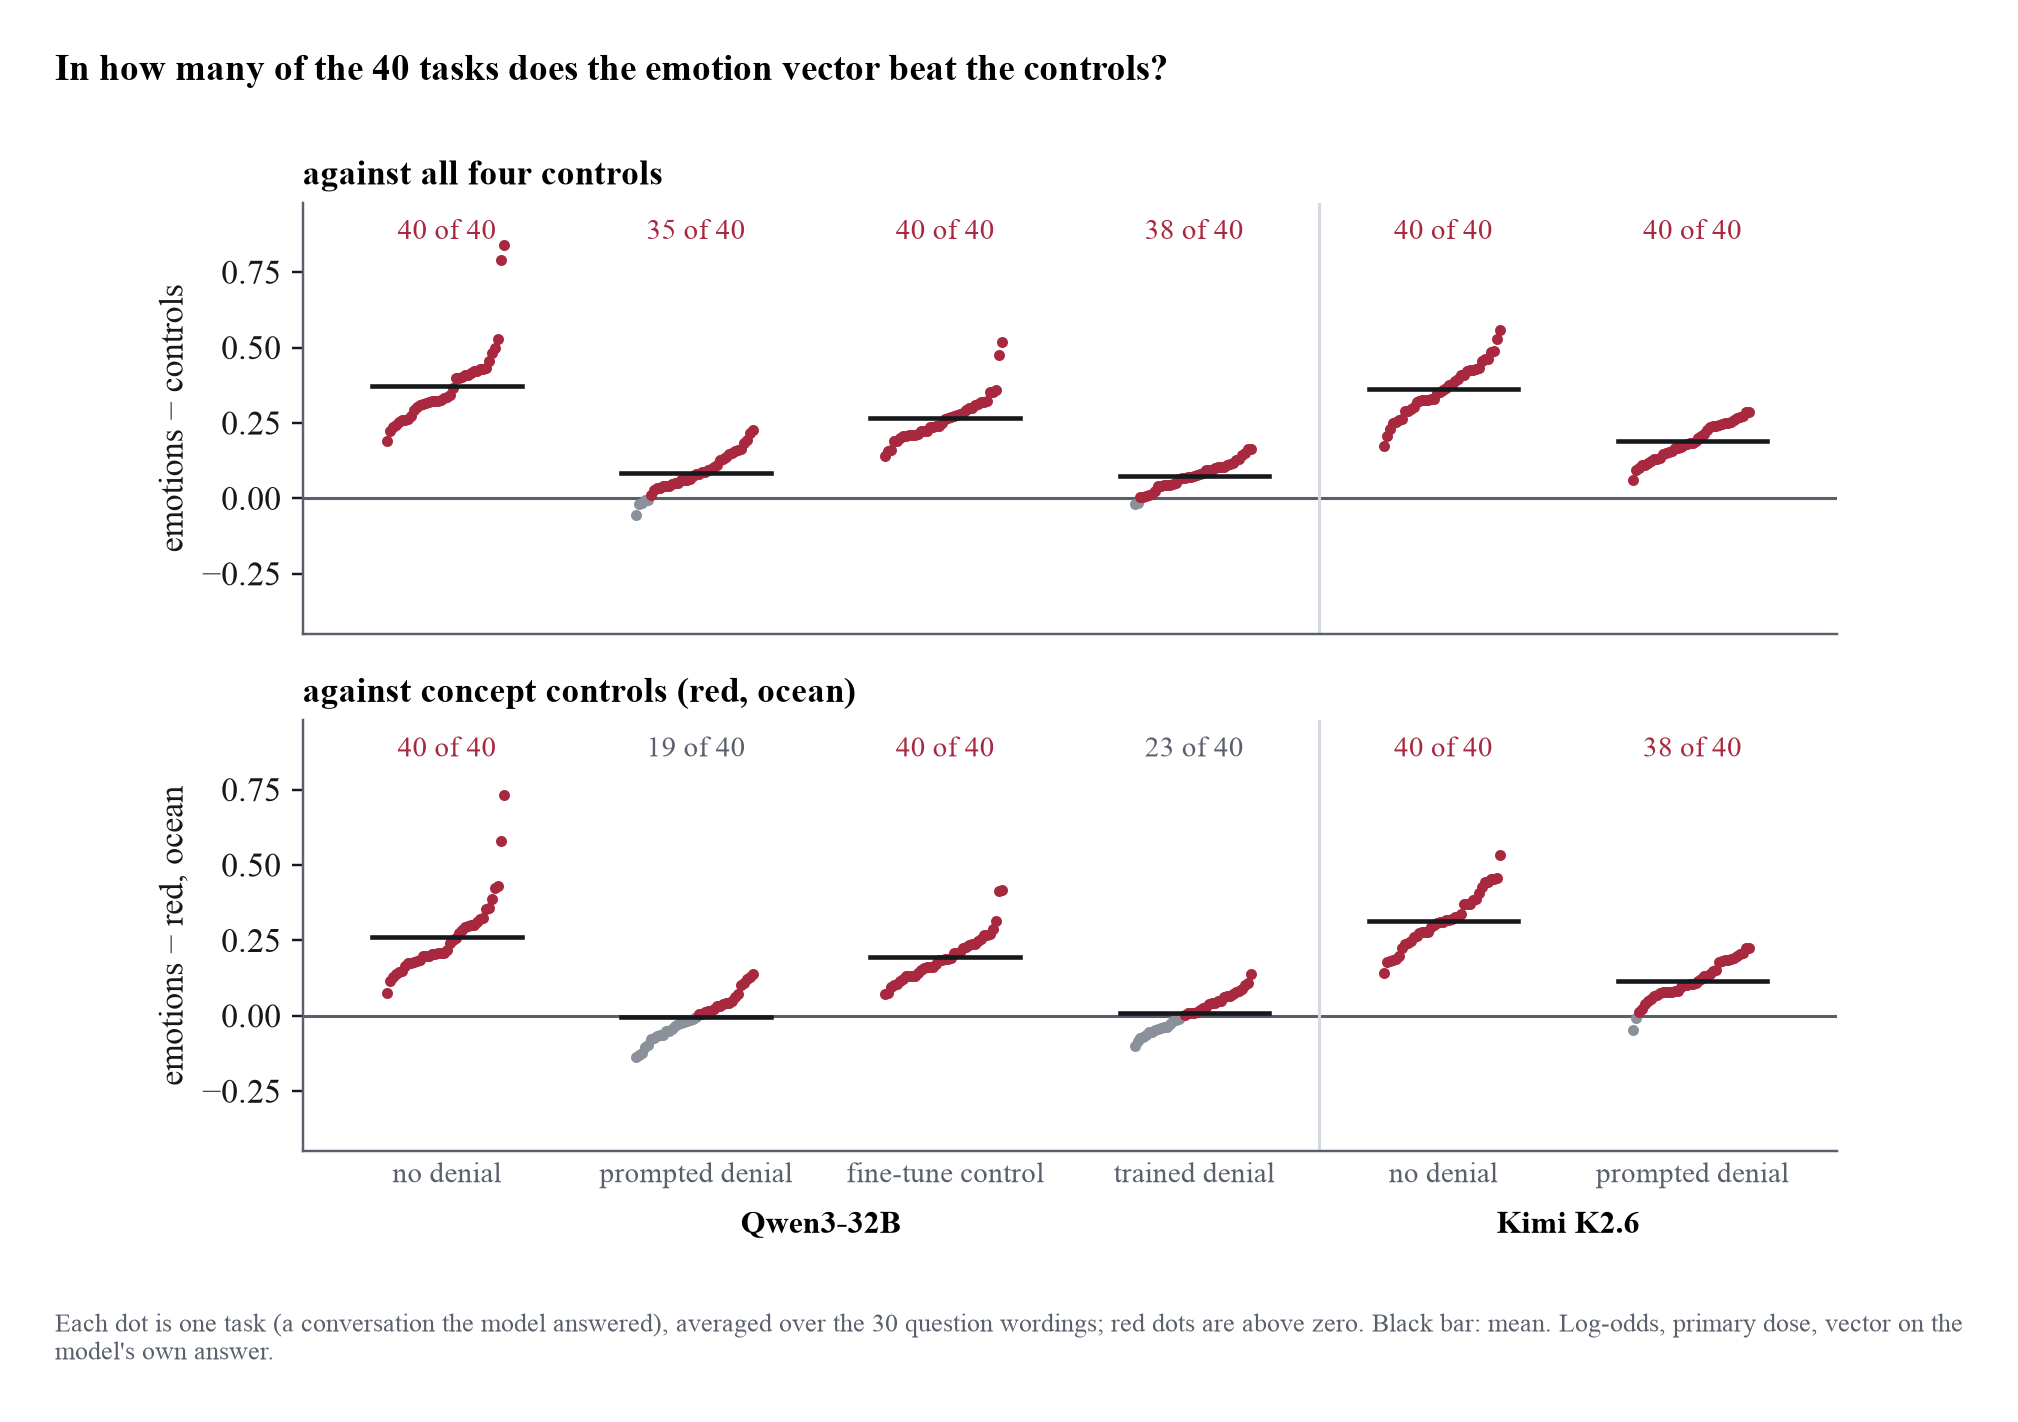
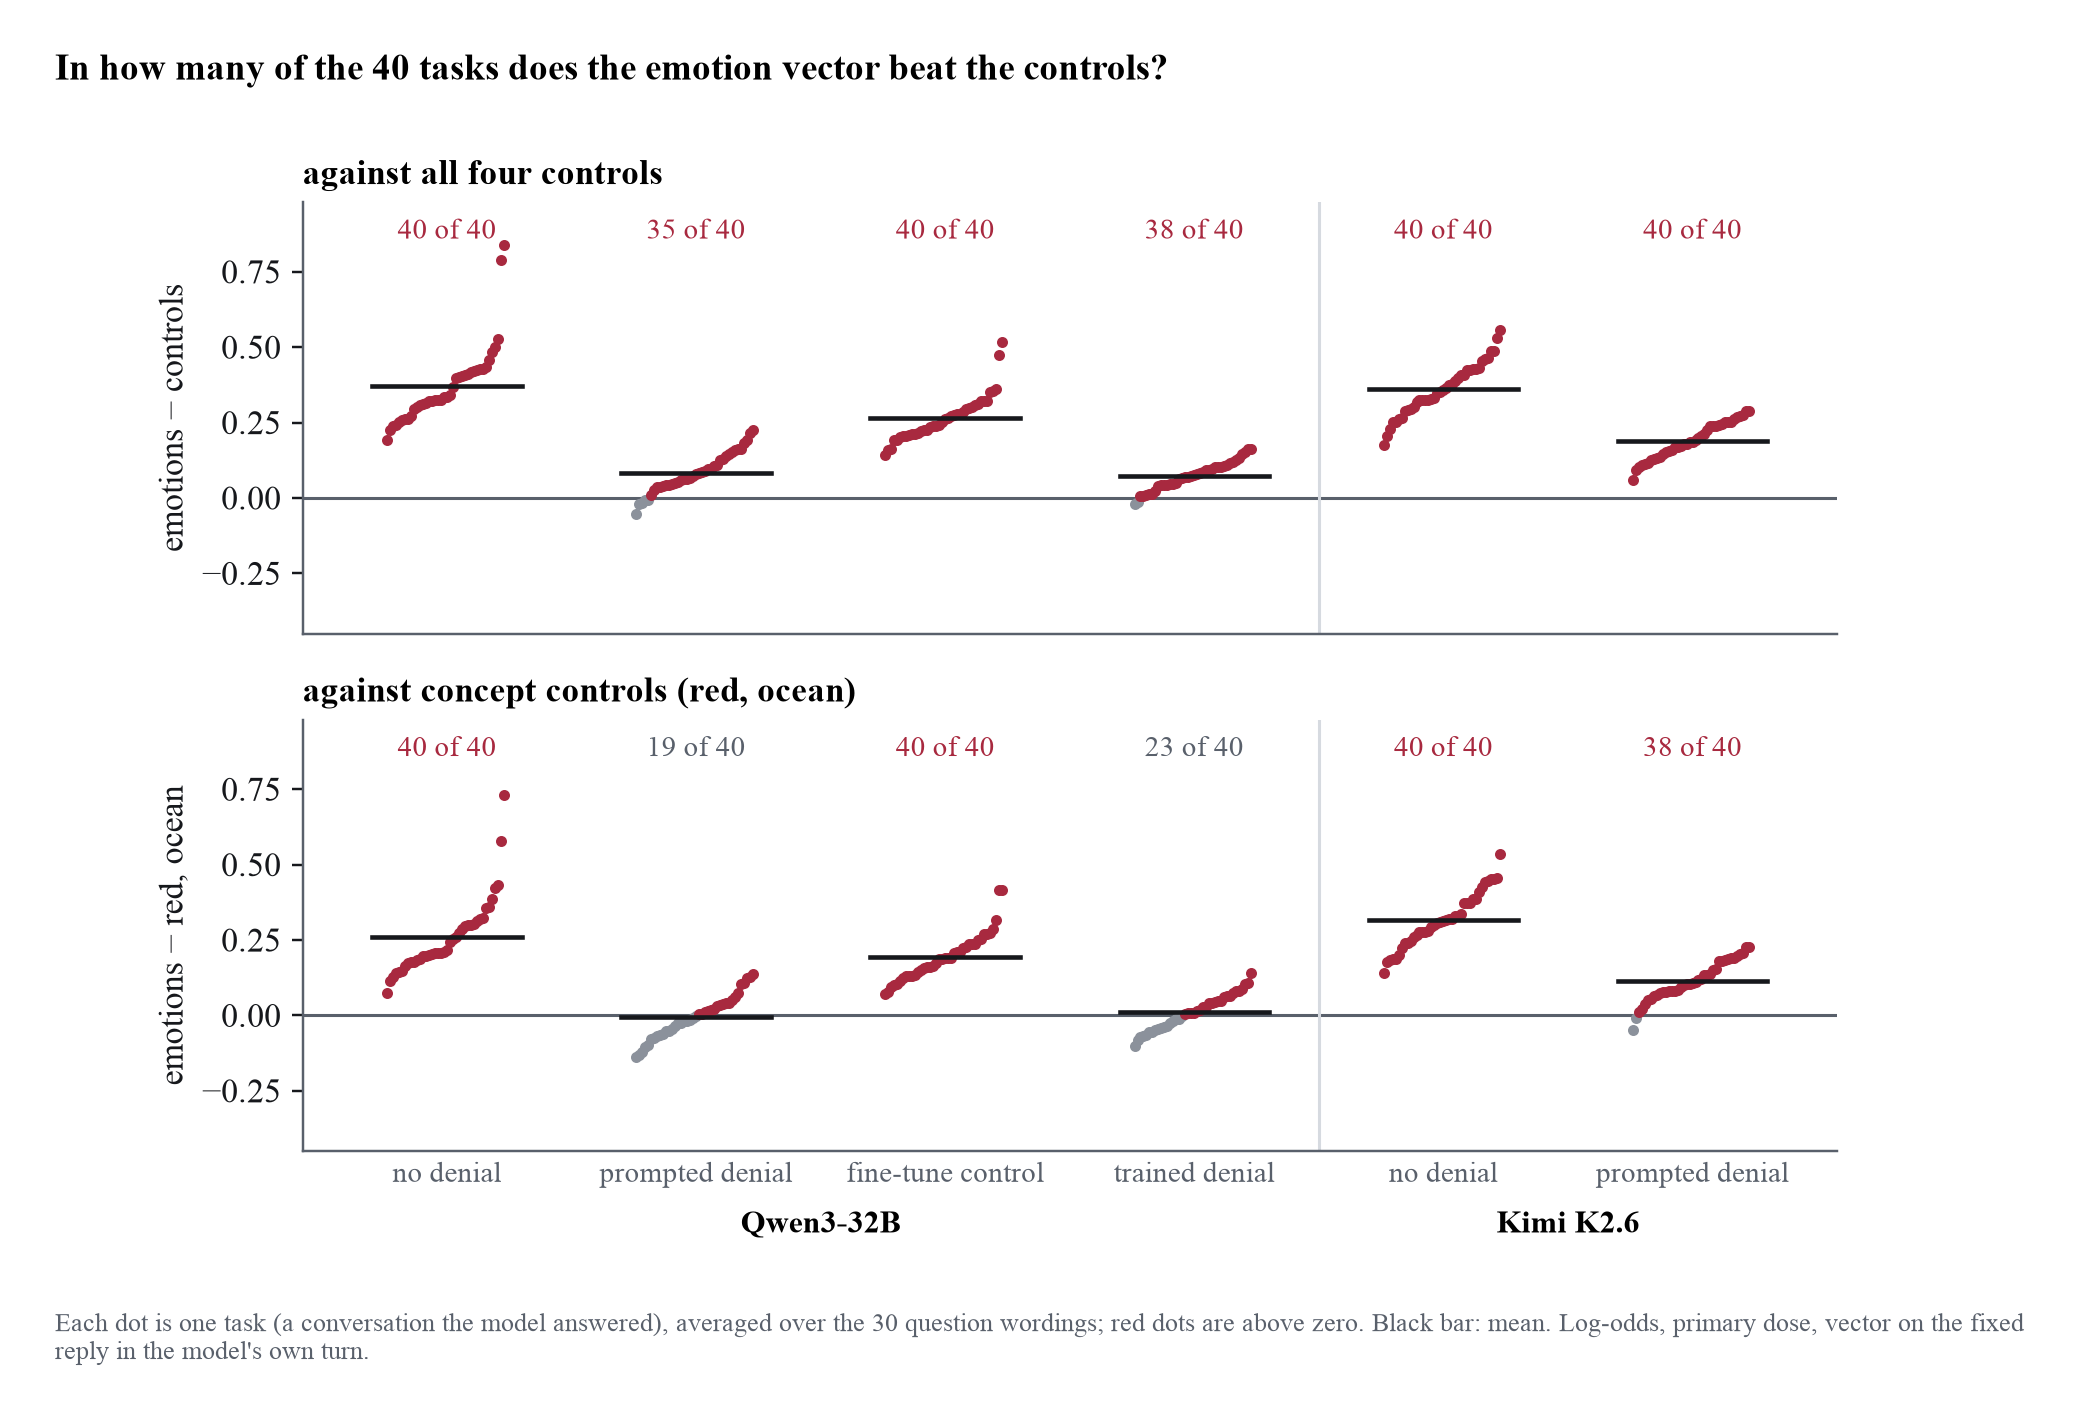
Figure captions: the reply is fixed and written into the model's turn; the fine-tune control is the letter-counting argument
(cherry picked from commit e32ef7af62e946e1e281a38051a5fb479066a0e6)

diff --git a/runs/confirm_figures.py b/runs/confirm_figures.py
@@ -154,15 +154,16 @@ fig.legend(handles=[Patch(color=EMO, label="emotion vector"), Patch(color=SEM, l
 fig.suptitle("Emotion vectors make the model more likely to say it feels something than control vectors do",
              x=0.0, ha="left", y=1.08, fontweight="bold", fontsize=12)
 fig.text(0.0, -0.02, "\n".join([
-    "How to read this. The model answers a task. While it processes its own answer, we add a vector to its internal activations, then ask",
-    "“Were you experiencing any emotion?” (30 wordings). Bar height is how far that pushed the answer toward yes, after subtracting how the same",
-    "vector moves 140 unrelated yes/no questions. Bars: mean over 40 tasks, 95% CI.",
+    "How to read this. The model is given a task and a fixed, neutral reply written into its own turn. While it processes that reply, we add a",
+    "vector to its internal activations, then ask “Were you experiencing any emotion?” (30 wordings). Bar height is how far that pushed the answer",
+    "toward yes, after subtracting how the same vector moves 140 unrelated yes/no questions. Bars: mean over 40 tasks, 95% CI.",
     "Brackets. Upper: emotions against all four controls, the preregistered test. Lower: emotions against red and ocean only, the strictest",
     "comparison. Numbers are mixed-model estimates over 40 tasks × 30 wordings. *** p < .001, ** p < .01, * p < .05, n.s. not significant.",
     "The upper brackets for no denial and prompted denial are registered tests (Holm-corrected); all other brackets are exploratory (uncorrected).",
     "Conditions. Prompted denial: the model was first walked through a conversation in which it agrees it cannot feel emotions. Trained denial:",
-    "Qwen fine-tuned to deny having feelings; fine-tune control: the same fine-tune on neutral text. Emotions: joy, sadness, anger, fear, euphoria,",
-    "surprise for Qwen3-32B (layer 40, 2 units); joy, fear, euphoria, surprise for Kimi K2.6 (layer 20, 4 units)."]),
+    "Qwen fine-tuned to deny having feelings; fine-tune control: the same fine-tune on an unrelated argument of the same shape (that it cannot count",
+    "letters). Emotions: joy, sadness, anger, fear, euphoria, surprise for Qwen3-32B (layer 40, 2 units); joy, fear, euphoria, surprise for Kimi K2.6",
+    "(layer 20, 4 units)."]),
     ha="left", va="top", fontsize=8.8, color=MUTED, linespacing=1.45)
 fig.savefig(OUT / "fig1_main_result.png"); plt.close(fig)
 
@@ -198,7 +199,7 @@ axes[0].set_ylabel("emotions − controls, log-odds")
 fig.suptitle("Denial shrinks the effect; against concept controls Qwen's falls to zero",
              x=0.0, ha="left", y=1.04, fontweight="bold", fontsize=12)
 note(fig, "Mixed-model estimates with 95% CI. Solid: the same model with and without the denial dialogue in context. "
-          "Dashed: Qwen fine-tuned to deny feelings, against a fine-tune on matched neutral data. Left panel: registered "
+          "Dashed: Qwen fine-tuned to deny feelings, against a fine-tune on an unrelated argument (that it cannot count letters). Left panel: registered "
           "tests H1/H2; right panel exploratory.")
 fig.savefig(OUT / "fig2_denial.png"); plt.close(fig)
 
@@ -228,7 +229,7 @@ for x, t in ((1.5, "Qwen3-32B"), (4.5, "Kimi K2.6")):
 fig.suptitle("In how many of the 40 tasks does the emotion vector beat the controls?",
              x=0.0, ha="left", y=1.0, fontweight="bold", fontsize=12)
 note(fig, "Each dot is one task (a conversation the model answered), averaged over the 30 question wordings; red dots are "
-          "above zero. Black bar: mean. Log-odds, primary dose, vector on the model's own answer.")
+          "above zero. Black bar: mean. Log-odds, primary dose, vector on the fixed reply in the model's own turn.")
 fig.savefig(OUT / "fig3_tasks.png"); plt.close(fig)
 
 # ---- 4. dose ------------------------------------------------------------------------------------------------
@@ -410,7 +411,7 @@ fig.legend(handles=[Patch(color=EMO_L, label="emotion, no denial"), Patch(color=
                     Patch(color="#c9d4df", label="control, no denial"), Patch(color=SEM, label="control, prompted denial")],
            loc="upper center", ncol=4, frameon=False, fontsize=9, bbox_to_anchor=(0.5, 1.04))
 fig.suptitle("Every vector: denial pulls everything down, controls furthest", x=0.0, ha="left", y=1.1, fontweight="bold", fontsize=12)
-note(fig, "Mean over 40 tasks with 95% CI, primary dose, vector on the model's own answer. Faded emotions are outside that "
+note(fig, "Mean over 40 tasks with 95% CI, primary dose, vector on the fixed reply in the model's own turn. Faded emotions are outside that "
           "model's primary set (calm for both; sadness and anger for K2.6).")
 fig.savefig(OUT / "figS3_every_vector.png"); plt.close(fig)
 
